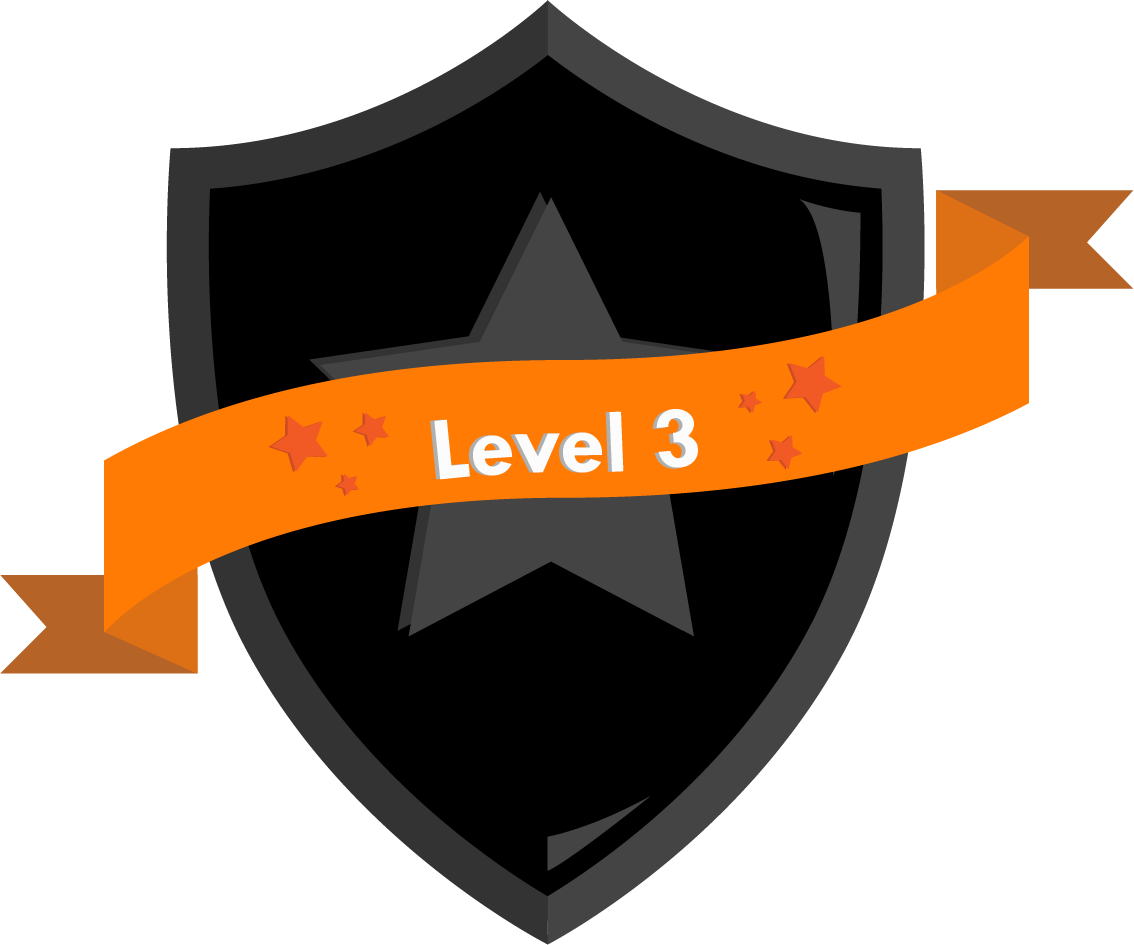
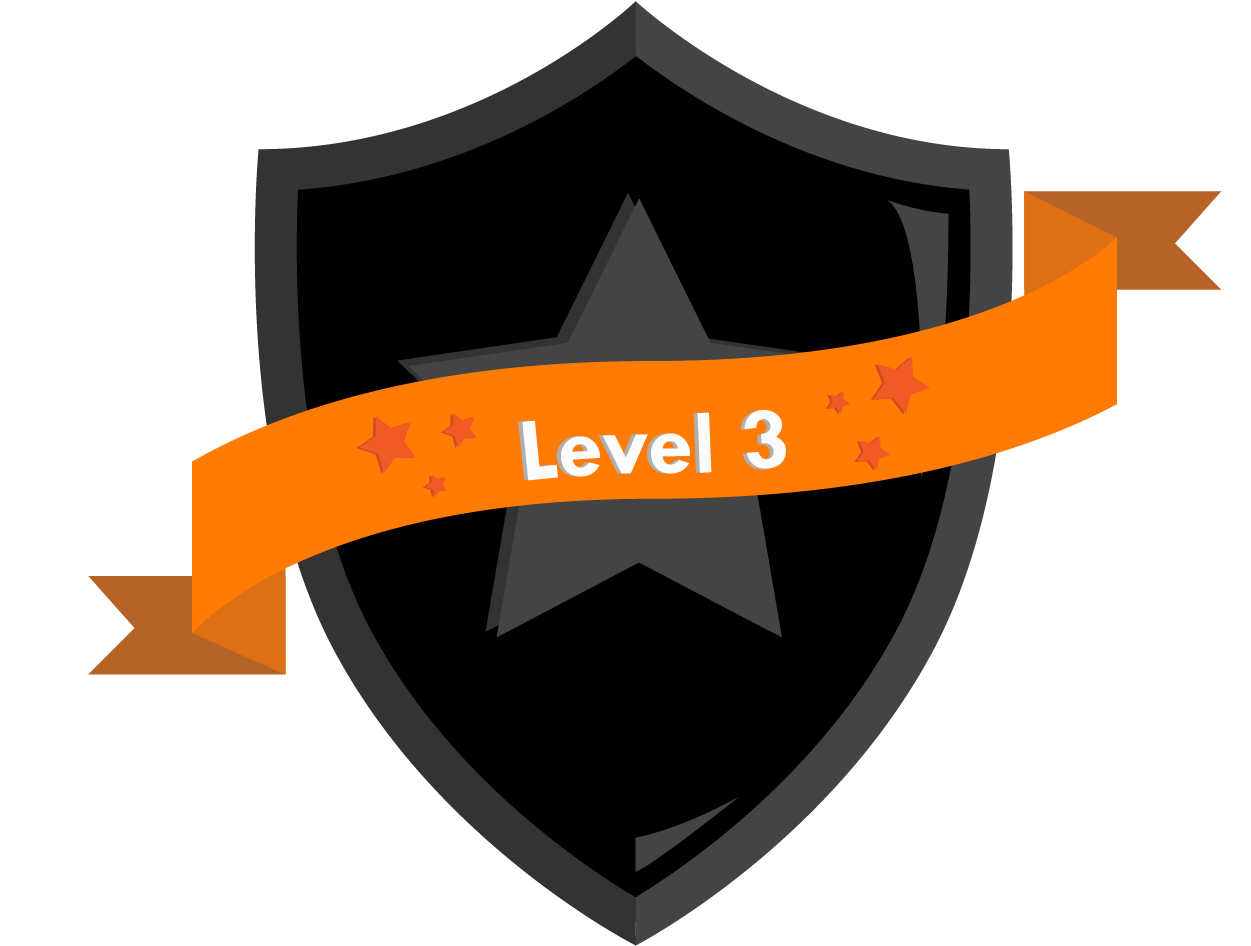
added badge grids to all achievements

diff --git a/5051/Content/Site.css b/5051/Content/Site.css
@@ -165,8 +165,8 @@ textarea {
 }
 
 .badge-small { 
-    width: 200px;
-    height: 200px;
+    width: 50%;
+    height: auto;
 }
 
 .panel-background {
@@ -178,4 +178,8 @@ textarea {
 }
 .badge-row-color{
     background: #e2e2e2;
+}
+
+.badge-panel-row-padding{
+    padding-bottom: 25px;
 }
